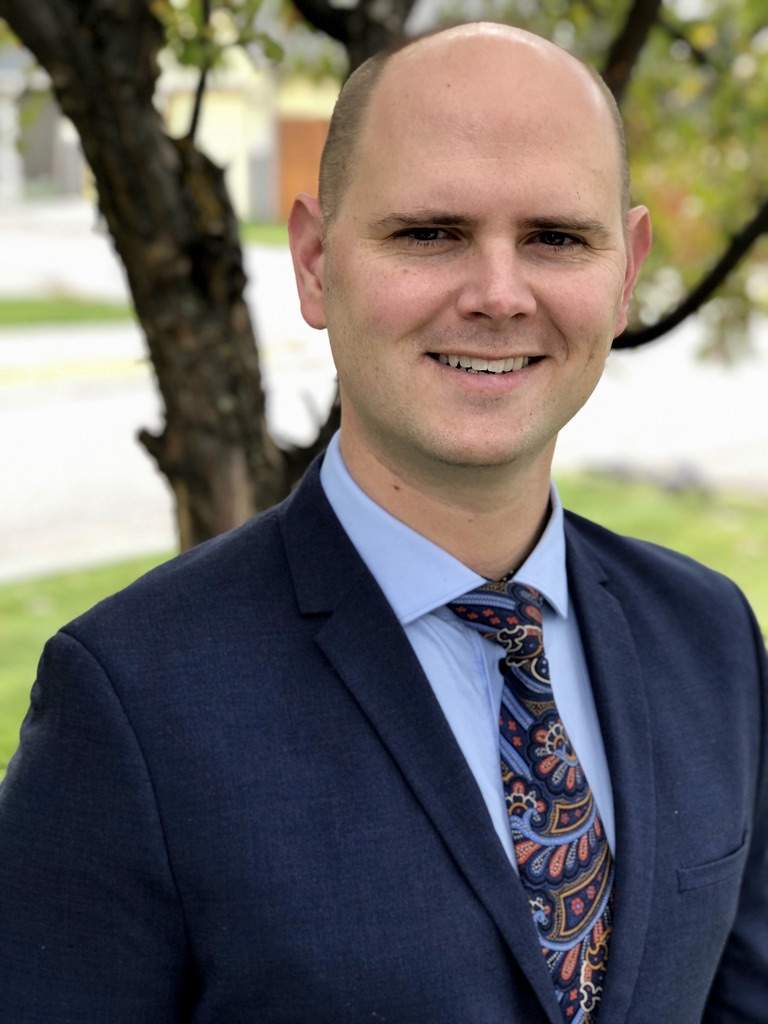
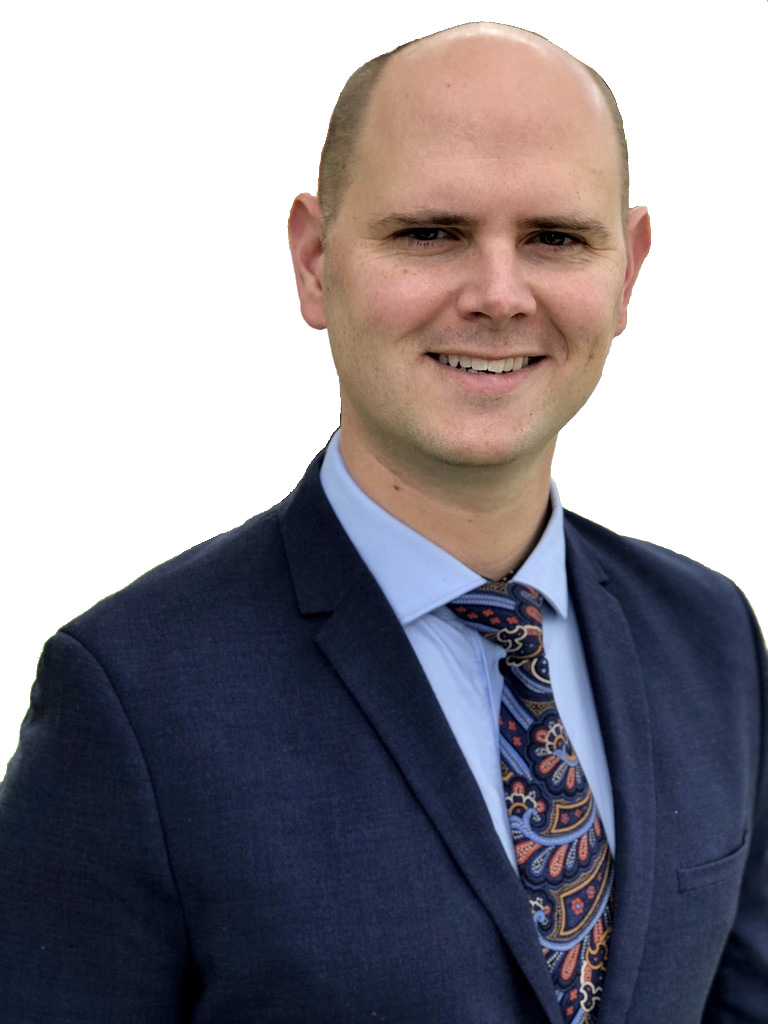
Updated files and continued development

Changed region(s): [[0.0, 0.0, 1.0, 0.75], [0.7188, 0.4375, 1.0, 0.625], [0.375, 0.3125, 0.4062, 0.3438]]

diff --git a/src/components/about/About.jsx b/src/components/about/About.jsx
@@ -1,8 +1,49 @@
 import React from "react";
 import "./about.css";
+import ME from "../../assets/Dallas.JPG"
+import {FaAward} from "react-icons/fa"
+import {FiUsers} from "react-icons/fi"
+import {VscFolderLibrary} from "react-icons/vsc"
 
 const About = () => {
-  return <div>About</div>;
+  return (
+  <section id="about">
+    <h5>Get to know</h5>
+    <h2>About Me</h2>
+
+    <div className="container about__container">
+      <div className="about__me">
+        <div className="about__me-image">
+          <img src={ME} alt="Image of Dallas" />
+        </div>
+      </div>
+
+      <div className="about__content">
+        <div className="about__cards">
+          <article className="about__card">
+            <FaAward classname="about__icon"/>
+            <h5>Experience</h5>
+            <small>12+ years Sales Experience</small>
+          </article>
+          <article className="about__card">
+            <FiUsers classname="about__icon"/>
+            <h5>Clients</h5>
+            <small>Seeking Clients</small>
+          </article>
+          <article className="about__card">
+            <VscFolderLibrary classname="about__icon"/>
+            <h5>Projects</h5>
+            <small>20+ Completed</small>
+          </article>
+        </div>
+        <p>
+        My name is Dallas Sybrowsky and I have a B.S. in Biochemistry and Cell Biology from UC San Diego. After working in sales for 12 years I moved on to pursue a career in coding. I'm interested in software engineering and I'm looking forward to partnering with you to build software that can improve the productivity and lives of users. This is a portfolio of my work as a full-stack developer. It's a work in progress so please feel free to browse the projects I've completed and keep an eye out for new additions coming soon!
+        </p>
+        <a href="#contact" className="btn btn-primary">Let's Talk</a>
+      </div>
+    </div>
+  </section>
+  )
 };
 
 export default About;

diff --git a/src/components/header/header.css b/src/components/header/header.css
@@ -1,0 +1,78 @@
+header {
+  height: 100vh;
+  padding-top: 7rem;
+  overflow: hidden;
+}
+
+.header__container {
+  text-align: center;
+  height: 100%;
+  position: relative;
+}
+
+/* =========== CTA =========== */
+.cta {
+  margin-top: 2.5rem;
+  display: flex;
+  gap: 1.2rem;
+  justify-content: center;
+}
+
+/* =========== HEADER SOCIALS =========== */
+.header__socials {
+  display: flex;
+  flex-direction: column;
+  align-items: center;
+  gap: 0.8rem;
+  position: absolute;
+  left: 0;
+  bottom: 3rem;
+}
+
+.header__socials::after {
+  content: "";
+  width: 1px;
+  height: 2rem;
+  background: var(--color-primary);
+}
+
+/* =========== ME (IMAGE) =========== */
+.me {
+  background: linear-gradient(var(--color-primary), transparent);
+  width: 22rem;
+  height: 30rem;
+  position: absolute;
+  left: calc(50% - 11rem);
+  /* bottom: calc(50%-11rem); */
+  margin-top: 4rem;
+  border-radius: 12rem 12rem 2rem 2rem;
+  padding: 5rem 1.5rem 1.5rem 1.5rem;
+}
+
+/* =========== SCROLL DOWN =========== */
+.scroll__down {
+  position: absolute;
+  right: -2.3rem;
+  bottom: 5rem;
+  transform: rotate(90deg);
+  font-weight: 300;
+  font-size: 0.9rem;
+}
+
+/* =========== MEDIA QUERIES (MEDIUM) =========== */
+@media screen and (max-width: 1024px) {
+  header {
+    height: 68vh;
+  }
+}
+
+/* =========== MEDIA QUERIES (SMALL) =========== */
+@media screen and (max-width: 600px) {
+  header {
+    height: 100vh;
+  }
+  .header__socials,
+  .scroll__down {
+    display: none;
+  }
+}

diff --git a/src/components/nav/Nav.jsx b/src/components/nav/Nav.jsx
@@ -1,10 +1,33 @@
-import React from 'react';
-import "./nav.css"
+import React from "react";
+import "./nav.css";
+import { AiOutlineHome } from "react-icons/ai";
+import { AiOutlineUser } from "react-icons/ai";
+import { BiBook } from "react-icons/bi";
+import { RiServiceLine } from "react-icons/ri";
+import { BiMessageSquareDetail } from "react-icons/bi";
+import { useState } from "react";
 
 const Nav = () => {
+  const [activeNav, setActiveNav] = useState("#");
   return (
-    <div>Nav</div>
-  )
-}
+    <nav>
+      <a href="#" onClick={() => setActiveNav("#")} className={activeNav === "#" ? "active" : ""}>
+        <AiOutlineHome />
+      </a>
+      <a href="#about" onClick={() => setActiveNav("#about")} className={activeNav === "#about" ? "active" : ""}>
+        <AiOutlineUser />
+      </a>
+      <a href="#experience" onClick={() => setActiveNav("#experience")} className={activeNav === "#experience" ? "active" : ""}>
+        <BiBook />
+      </a>
+      <a href="#portfolio" onClick={() => setActiveNav("#portfolio")} className={activeNav === "#portfolio" ? "active" : ""}>
+        <RiServiceLine />
+      </a>
+      <a href="#contact" onClick={() => setActiveNav("#contact")} className={activeNav === "#contact" ? "active" : ""}>
+        <BiMessageSquareDetail />
+      </a>
+    </nav>
+  );
+};
 
-export default Nav
+export default Nav;

diff --git a/src/components/about/about.css b/src/components/about/about.css
@@ -1,0 +1,71 @@
+.about__container {
+  display: grid;
+  grid-template-columns: 35% 50%;
+  gap: 15%;
+}
+
+.about__me {
+  width: 100%;
+  aspect-ratio: 1/1;
+  border-radius: 2rem;
+  background: linear-gradient(
+    45deg,
+    transparent,
+    var(--color-primary),
+    transparent
+  );
+  display: grid;
+  place-items: center;
+}
+
+.about__me-image {
+  border-radius: 2rem;
+  overflow: hidden;
+  transform: rotate(-10deg);
+}
+
+.about__me-image:hover {
+  transform: rotate(0deg);
+  transition: var(--transition);
+}
+
+.about__cards {
+  display: grid;
+  grid-template-columns: repeat(3, 1fr);
+  gap: 1.5rem;
+}
+
+.about__card {
+  background: var(--color-bg-variant);
+  border: 1px solid transparent;
+  border-radius: 1rem;
+  padding: 2rem;
+  text-align: center;
+  transition: var(--transition)
+}
+
+.about__card:hover {
+    background: transparent;
+    backdrop-filter: blur(3px);
+    border-color: var(--color-primary-varient);
+    cursor: default;
+}
+
+.about__icon {
+    color: var(--color-primary);
+    font-size: 1.4rem;
+    margin-bottom: 1rem;
+}
+
+.about__card h5 {
+    font-size: 0.95rem;
+}
+
+.about__card small {
+    font-size: 0.7rem;
+     color:var(--color-light )
+}
+.about__content p {
+    margin: 2rem 0 2.6rem;
+    color: var(--color-light);
+}

diff --git a/src/components/nav/nav.css b/src/components/nav/nav.css
@@ -1,0 +1,33 @@
+nav {
+  background: rgba(0, 0, 0, 0.3);
+  width: max-content;
+  display: block;
+  padding: 0.7rem 1.7rem;
+  z-index: 2;
+  position: fixed;
+  left: 50%;
+  transform: translateX(-50%);
+  bottom: 2rem;
+  display: flex;
+  gap: 0.8rem;
+  border-radius: 3rem;
+  backdrop-filter: blur(15px);
+}
+
+nav a {
+  background: transparent;
+  padding: 0.9rem;
+  border-radius: 50%;
+  display: flex;
+  color: var(--color-light);
+  font-size: 1.1rem;
+}
+
+nav a:hover {
+  background: rgba(0, 0, 0, 0.3);
+}
+
+nav a.active {
+    background:var(--color-bg);
+    color: var(--color-white);
+}

diff --git a/src/components/header/Header.jsx b/src/components/header/Header.jsx
@@ -1,7 +1,7 @@
 import React from "react";
 import "./header.css";
 import CTA from "./CTA";
-import ME from "../../assets/Portrait.jpeg";
+import ME from "../../assets/Portrait.png";
 import HeaderSocials from "./HeaderSocials";
 
 const Header = () => {

diff --git a/src/components/contact/Contact.jsx b/src/components/contact/Contact.jsx
@@ -2,7 +2,9 @@ import React from "react";
 import "./contact.css";
 
 const Contact = () => {
-  return <div>Contact</div>;
+  return (
+  <section id="contact">Contact</section>
+  )
 };
 
 export default Contact;

diff --git a/src/components/testimonials/Testimonials.jsx b/src/components/testimonials/Testimonials.jsx
@@ -3,7 +3,7 @@ import "./testimonials.css"
 
 const Testimonials = () => {
   return (
-    <div>Testimonials</div>
+    <section id="testimonials">Testimonials</section>
   )
 }
 

diff --git a/src/components/experience/Experience.jsx b/src/components/experience/Experience.jsx
@@ -3,7 +3,7 @@ import "./experience.css"
 
 const Experience = () => {
   return (
-    <div>Experience</div>
+    <section id="experience">Experience</section>
   )
 }
 

diff --git a/src/components/portfolio/Portfolio.jsx b/src/components/portfolio/Portfolio.jsx
@@ -3,7 +3,7 @@ import "./portfolio.css"
 
 const Portfolio = () => {
   return (
-    <div>Portfolio</div>
+    <section id="portfolio">Portfolio</section>
   )
 }
 

diff --git a/src/components/services/Services.jsx b/src/components/services/Services.jsx
@@ -3,7 +3,7 @@ import "./services.css"
 
 const Services = () => {
   return (
-    <div>Services</div>
+    <section id="services">Services</section>
   )
 }
 

diff --git a/src/components/footer/Footer.jsx b/src/components/footer/Footer.jsx
@@ -3,7 +3,7 @@ import "./footer.css"
 
 const Footer = () => {
   return (
-    <div>Footer</div>
+    <section>Footer</section>
   )
 }
 
